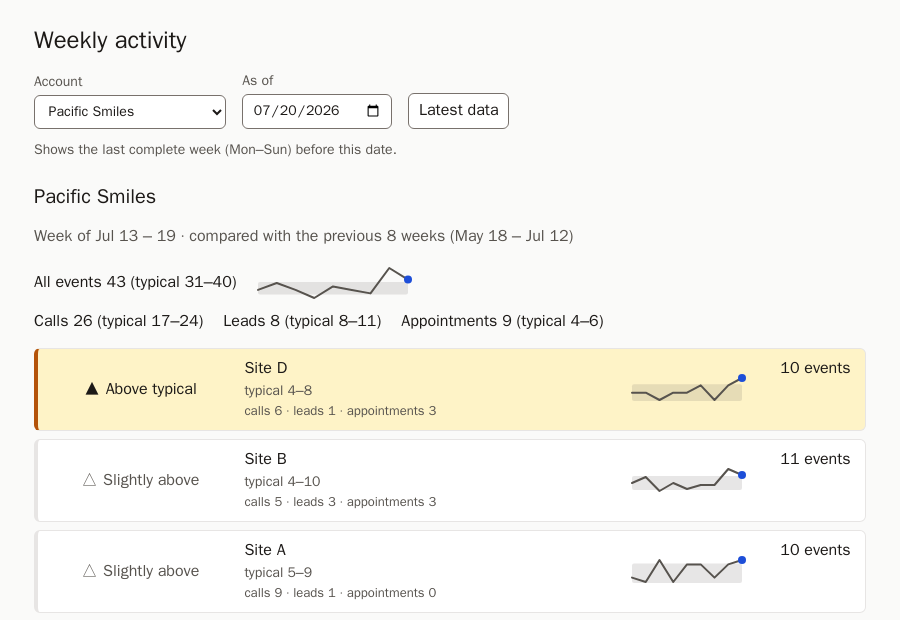
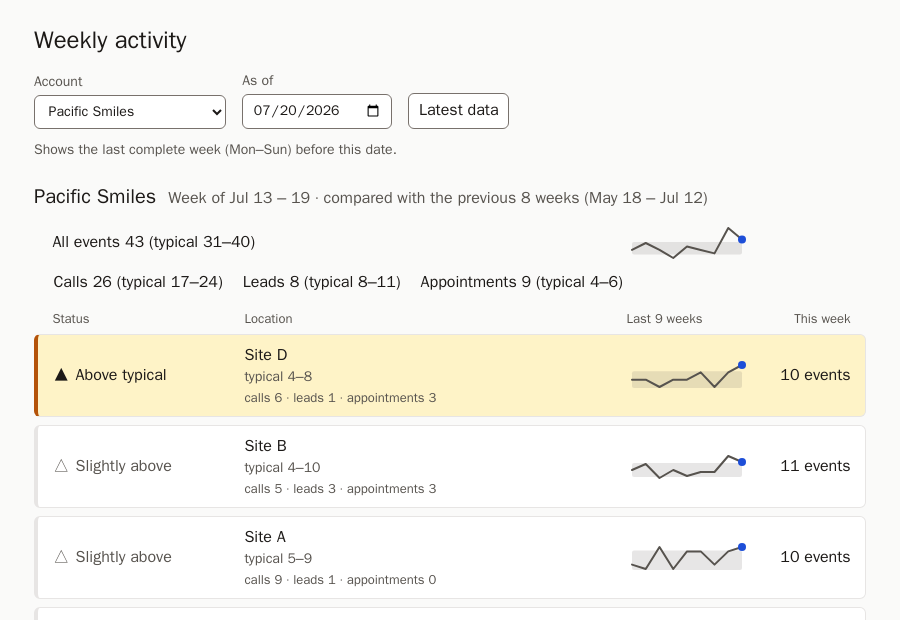
Align the location rows: column headers, status, counts, header sparkline
Column headers (Status, Location, Last 9 weeks, This week) above the
rows; status left-aligned with a fixed icon slot so icons and labels
line up; event counts centred vertically and right-aligned; the "All
events" line and the per-type totals share the rows' columns so the
header sparkline sits in the sparkline column; account name and the
week line share one line. Screenshots regenerated.

diff --git a/frontend/src/styles.css b/frontend/src/styles.css
@@ -13,6 +13,8 @@
   --spark-line: #57534e;
   --spark-current: #1d4ed8;
   --spark-band-opacity: 0.14;
+  /* location rows, their column headers and the account-total line share these columns */
+  --row-columns: 11rem 1fr 120px 5.5rem;
   font-family: system-ui, -apple-system, "Segoe UI", sans-serif;
   color: var(--text);
   background: var(--bg);
@@ -123,9 +125,8 @@ button:disabled {
 
 .location {
   display: grid;
-  /* fixed sparkline and count columns so sparklines line up across rows */
-  grid-template-columns: 11rem 1fr 120px 5.5rem;
-  grid-template-areas: "status name spark count" "status detail spark ." "status types spark .";
+  grid-template-columns: var(--row-columns);
+  grid-template-areas: "status name spark count" "status detail spark count" "status types spark count";
   gap: 0.15rem 1rem;
   align-items: baseline;
   padding: 0.6rem 0.9rem;
@@ -140,12 +141,13 @@ button:disabled {
   border-left-color: var(--flag-border);
 }
 
-/* status centred in its column, horizontally and vertically, on every row */
+/* status left-aligned and vertically centred; the fixed icon slot lines up icons and labels */
 .status {
   grid-area: status;
   align-self: center;
-  justify-self: center;
-  text-align: center;
+  justify-self: start;
+  display: flex;
+  align-items: baseline;
   font-weight: 600;
 }
 
@@ -155,7 +157,10 @@ button:disabled {
 }
 
 .icon {
+  flex: none;
+  width: 1.1em;
   margin-right: 0.35rem;
+  text-align: center;
 }
 
 .name {
@@ -165,6 +170,7 @@ button:disabled {
 
 .count {
   grid-area: count;
+  align-self: center;
   justify-self: end;
   font-variant-numeric: tabular-nums;
 }
@@ -186,17 +192,62 @@ button:disabled {
   display: flex;
   flex-wrap: wrap;
   gap: 0.25rem 1.25rem;
-  padding: 0;
+  /* indented like .account-total and the rows (1px border + 4px left border + 0.9rem padding) */
+  padding: 0 0 0 calc(0.9rem + 5px);
   margin: 0.5rem 0 0;
 }
 
-.account-total {
-  display: flex;
-  flex-wrap: wrap;
+/* same columns and horizontal box as a location row, so the sparkline lines up with the rows' */
+.account-total,
+.location-columns {
+  display: grid;
+  grid-template-columns: var(--row-columns);
+  column-gap: 1rem;
   align-items: center;
-  gap: 0.25rem 1rem;
+  padding: 0 0.9rem;
+  border: 1px solid transparent;
+  border-left-width: 4px;
+}
+
+.account-total {
   margin: 0.75rem 0 0;
   font-weight: 600;
+}
+
+.account-total > :first-child {
+  grid-column: 1 / 3;
+}
+
+.account-total .sparkline {
+  grid-area: auto;
+  grid-column: 3;
+}
+
+.location-columns {
+  margin: 1rem 0 0;
+  font-size: 0.8125rem;
+  color: var(--muted);
+}
+
+.location-columns > :last-child {
+  justify-self: end;
+}
+
+.location-columns + .locations {
+  margin-top: 0.35rem;
+}
+
+.summary-head {
+  display: flex;
+  flex-wrap: wrap;
+  align-items: baseline;
+  column-gap: 0.75rem;
+  margin: 1.5rem 0 0.25rem;
+}
+
+.summary-head h2,
+.summary-head .period {
+  margin: 0;
 }
 
 .sparkline {
@@ -258,6 +309,21 @@ button:disabled {
 }
 
 @media (max-width: 34rem) {
+  .location-columns {
+    display: none;
+  }
+
+  .account-total {
+    display: flex;
+    flex-wrap: wrap;
+    gap: 0.25rem 1rem;
+    padding: 0;
+  }
+
+  .totals {
+    padding: 0;
+  }
+
   .location {
     grid-template-columns: 1fr auto;
     grid-template-areas: "status status" "name count" "detail detail" "types types" "spark spark";

diff --git a/frontend/src/components/LocationList.tsx b/frontend/src/components/LocationList.tsx
@@ -58,15 +58,22 @@ export function LocationList({ summary }: { summary: WeeklySummary }) {
     return <p className="empty">No activity recorded for this account yet.</p>;
   }
   return (
-    <ul className="locations" aria-label="Locations, most unusual first">
+    <>
+      {/* Visual column labels; each row already reads on its own, so they're hidden from screen readers. */}
+      <div className="location-columns" data-testid="location-columns" aria-hidden="true">
+        <span>Status</span>
+        <span>Location</span>
+        <span>Last 9 weeks</span>
+        <span>This week</span>
+      </div>
+      <ul className="locations" aria-label="Locations, most unusual first">
       {summary.locations.map((location) => (
         <li key={location.location} className={`location status-${location.status}${location.flagged ? " flagged" : ""}`}>
           <span className="status">
-            {STATUS_ICON[location.status] && (
-              <span className="icon" aria-hidden="true">
-                {STATUS_ICON[location.status]}
-              </span>
-            )}
+            {/* fixed-width slot, empty when there's no icon, so icons and labels line up */}
+            <span className="icon" aria-hidden="true">
+              {STATUS_ICON[location.status] ?? ""}
+            </span>
             {STATUS_LABEL[location.status]}
           </span>
           <span className="name">{location.location}</span>
@@ -79,6 +86,7 @@ export function LocationList({ summary }: { summary: WeeklySummary }) {
                      typicalLow={location.typical_low} typicalHigh={location.typical_high} />
         </li>
       ))}
-    </ul>
+      </ul>
+    </>
   );
 }

diff --git a/frontend/src/App.tsx b/frontend/src/App.tsx
@@ -25,11 +25,13 @@ function SummaryView({ state }: { state: FetchState<WeeklySummary> }) {
       const s = state.data;
       return (
         <section aria-labelledby="summary-title">
-          <h2 id="summary-title">{s.account.name}</h2>
-          <p className="period">
-            Week of {formatRange(s.week.start, s.week.end)} · compared with the previous{" "}
-            {plural(s.baseline.weeks, "week")} ({formatRange(s.baseline.start, s.baseline.end)})
-          </p>
+          <div className="summary-head">
+            <h2 id="summary-title">{s.account.name}</h2>
+            <p className="period">
+              Week of {formatRange(s.week.start, s.week.end)} · compared with the previous{" "}
+              {plural(s.baseline.weeks, "week")} ({formatRange(s.baseline.start, s.baseline.end)})
+            </p>
+          </div>
           <AttentionLine summary={s} />
           <AccountTotals summary={s} />
           <LocationList summary={s} />

diff --git a/frontend/src/components/Sparkline.tsx b/frontend/src/components/Sparkline.tsx
@@ -12,7 +12,8 @@ interface Props {
   size?: "row" | "header";
 }
 
-const SIZES = { row: { width: 120, height: 32 }, header: { width: 160, height: 40 } };
+// same width in rows and header so the header sparkline sits in the rows' sparkline column
+const SIZES = { row: { width: 120, height: 32 }, header: { width: 120, height: 40 } };
 const PAD = 5; // room for the 8px this-week dot
 
 function describe(label: string, weeks: WeekPoint[], low: number | null, high: number | null): string {
